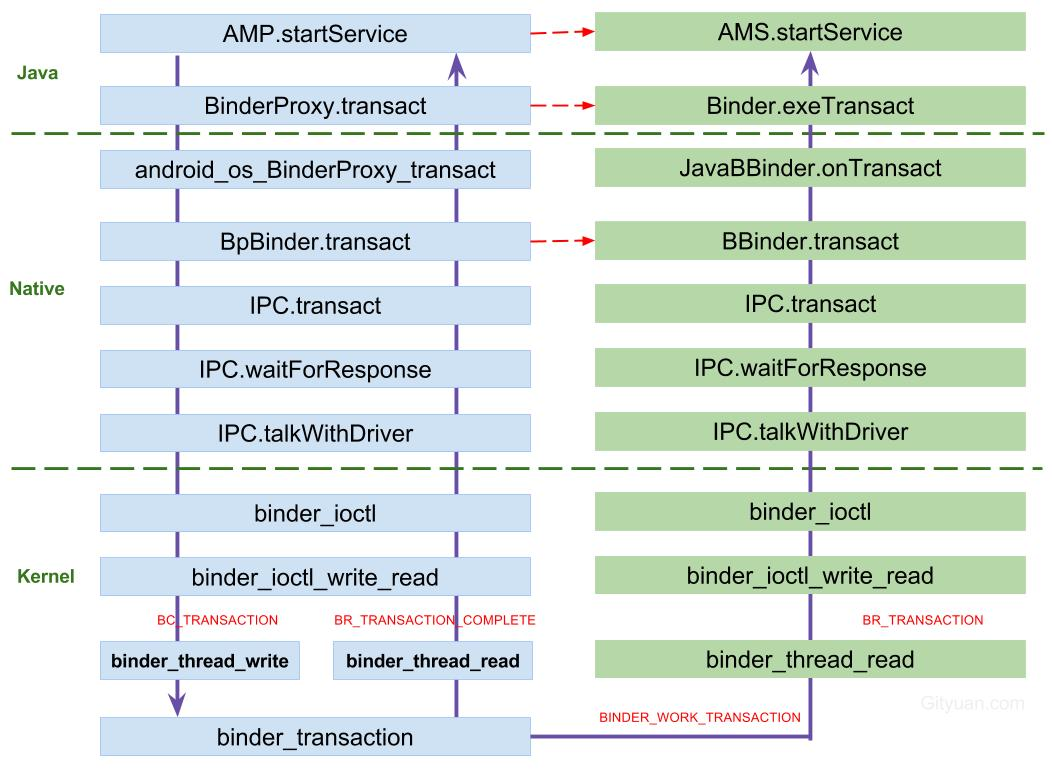
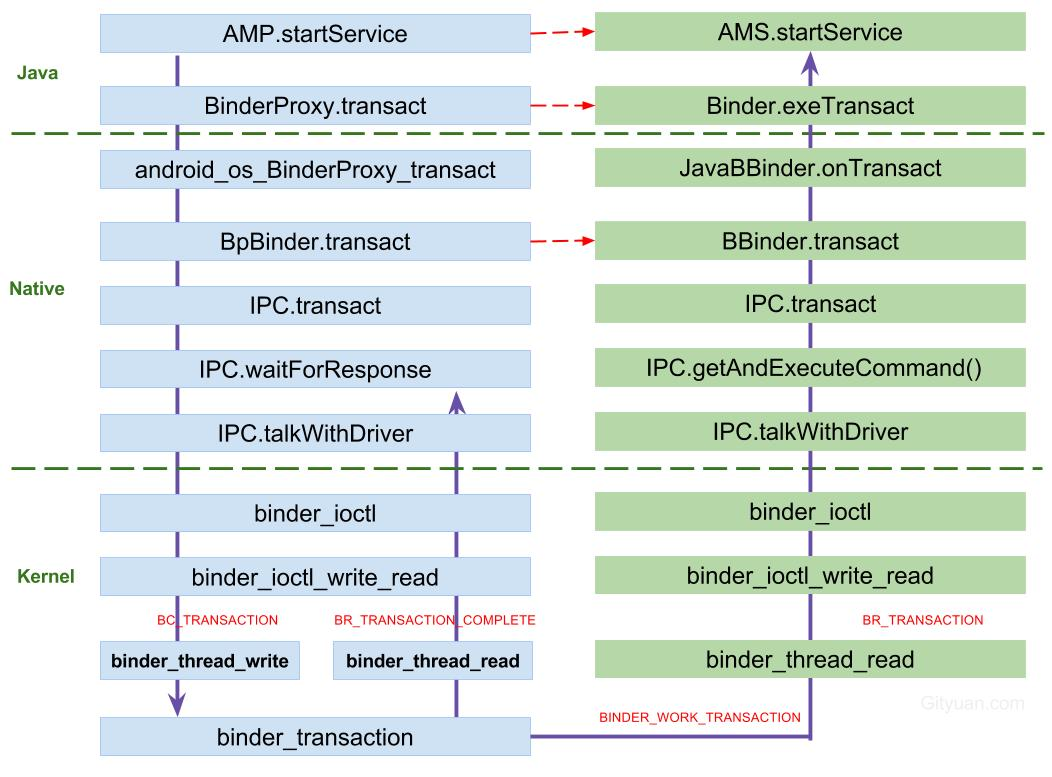
update

diff --git a/_posts/2016-09-04-binder-start-service.md b/_posts/2016-09-04-binder-start-service.md
@@ -1094,8 +1094,7 @@ transact主要过程:
 
 对于startService过程, 显然没有指定oneway的方式,那么发起者进程还会继续停留在waitForResponse()方法,等待收到BR_REPLY消息. 由于在前面binder_transaction过程中,除了向自己所在线程写入了`BINDER_WORK_TRANSACTION_COMPLETE`, 还向目标进程(此处为system_server)写入了`BINDER_WORK_TRANSACTION`命令. 而此时system_server进程的binder线程一旦空闲便是停留在binder_thread_read()方法来处理进程/线程新的事务, 收到的是`BINDER_WORK_TRANSACTION`命令, 经过binder_thread_read()后生成命令`BR_TRANSACTION`.同样的流程.
 
-接下来,从system_server的binder线程中waitForResponse()方法,收到BR_TRANSACTION消息,调用executeCommand()来处理, 见下文:
-
+接下来,从`system_server`的binder线程一直的执行流: IPC.joinThreadPool -->  IPC.getAndExecuteCommand() ->  IPC.talkWithDriver() ,但talkWithDriver收到事务之后, 便进入IPC.executeCommand(), 接下来,从executeCommand说起.
 
 ####  4.2 IPC.executeCommand
 
